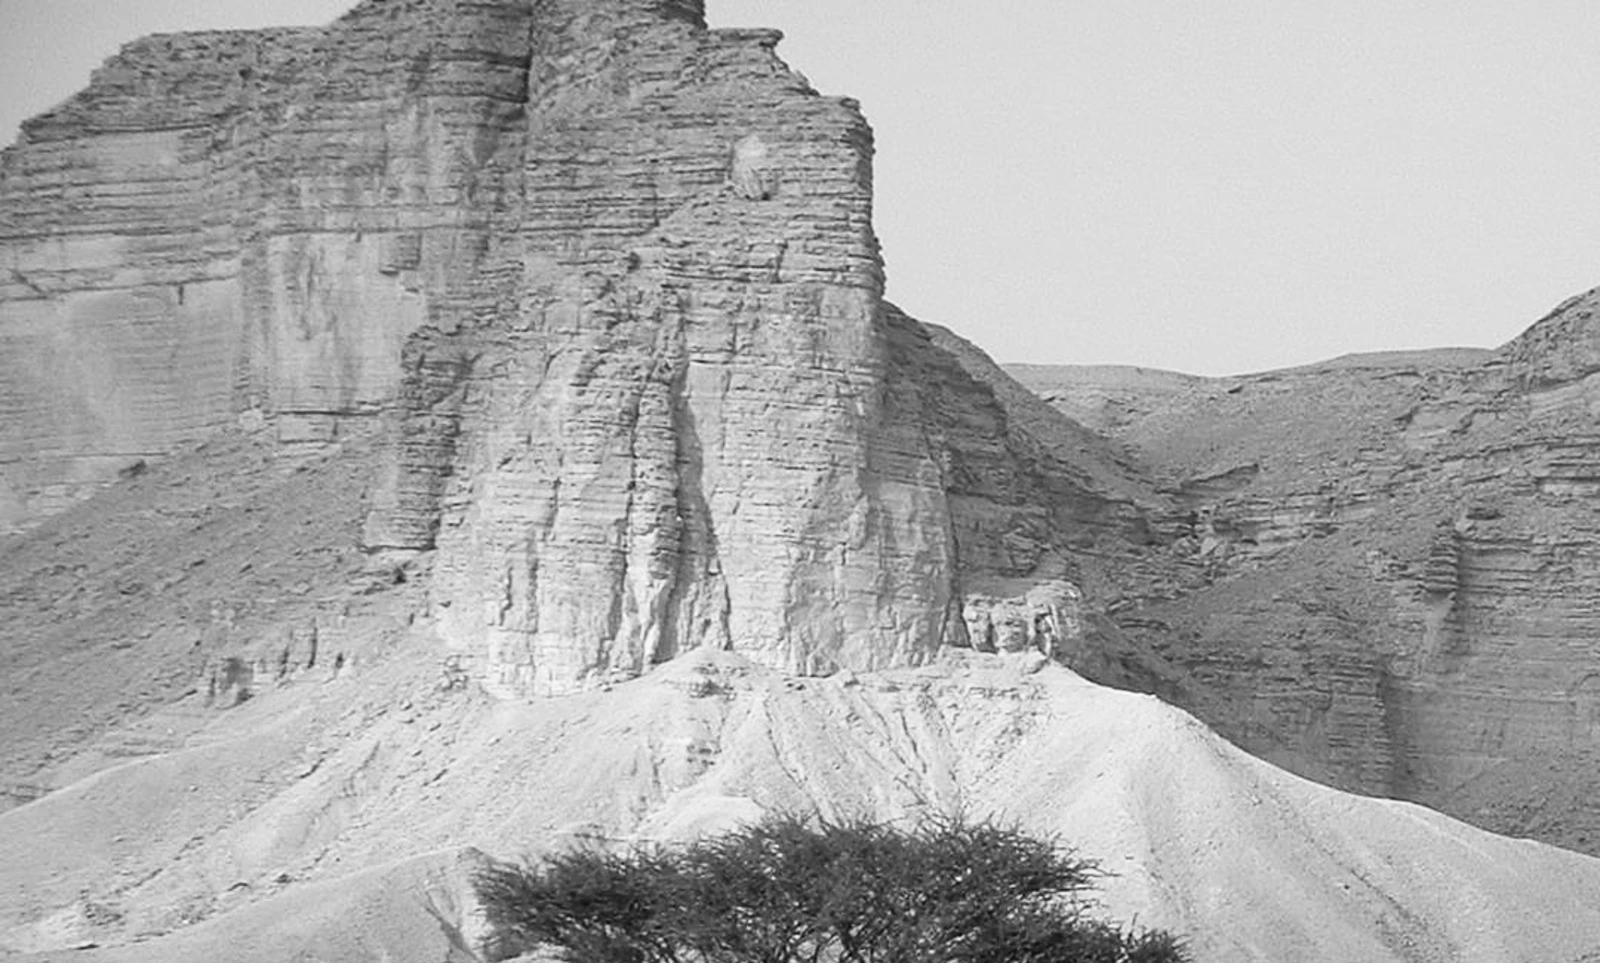
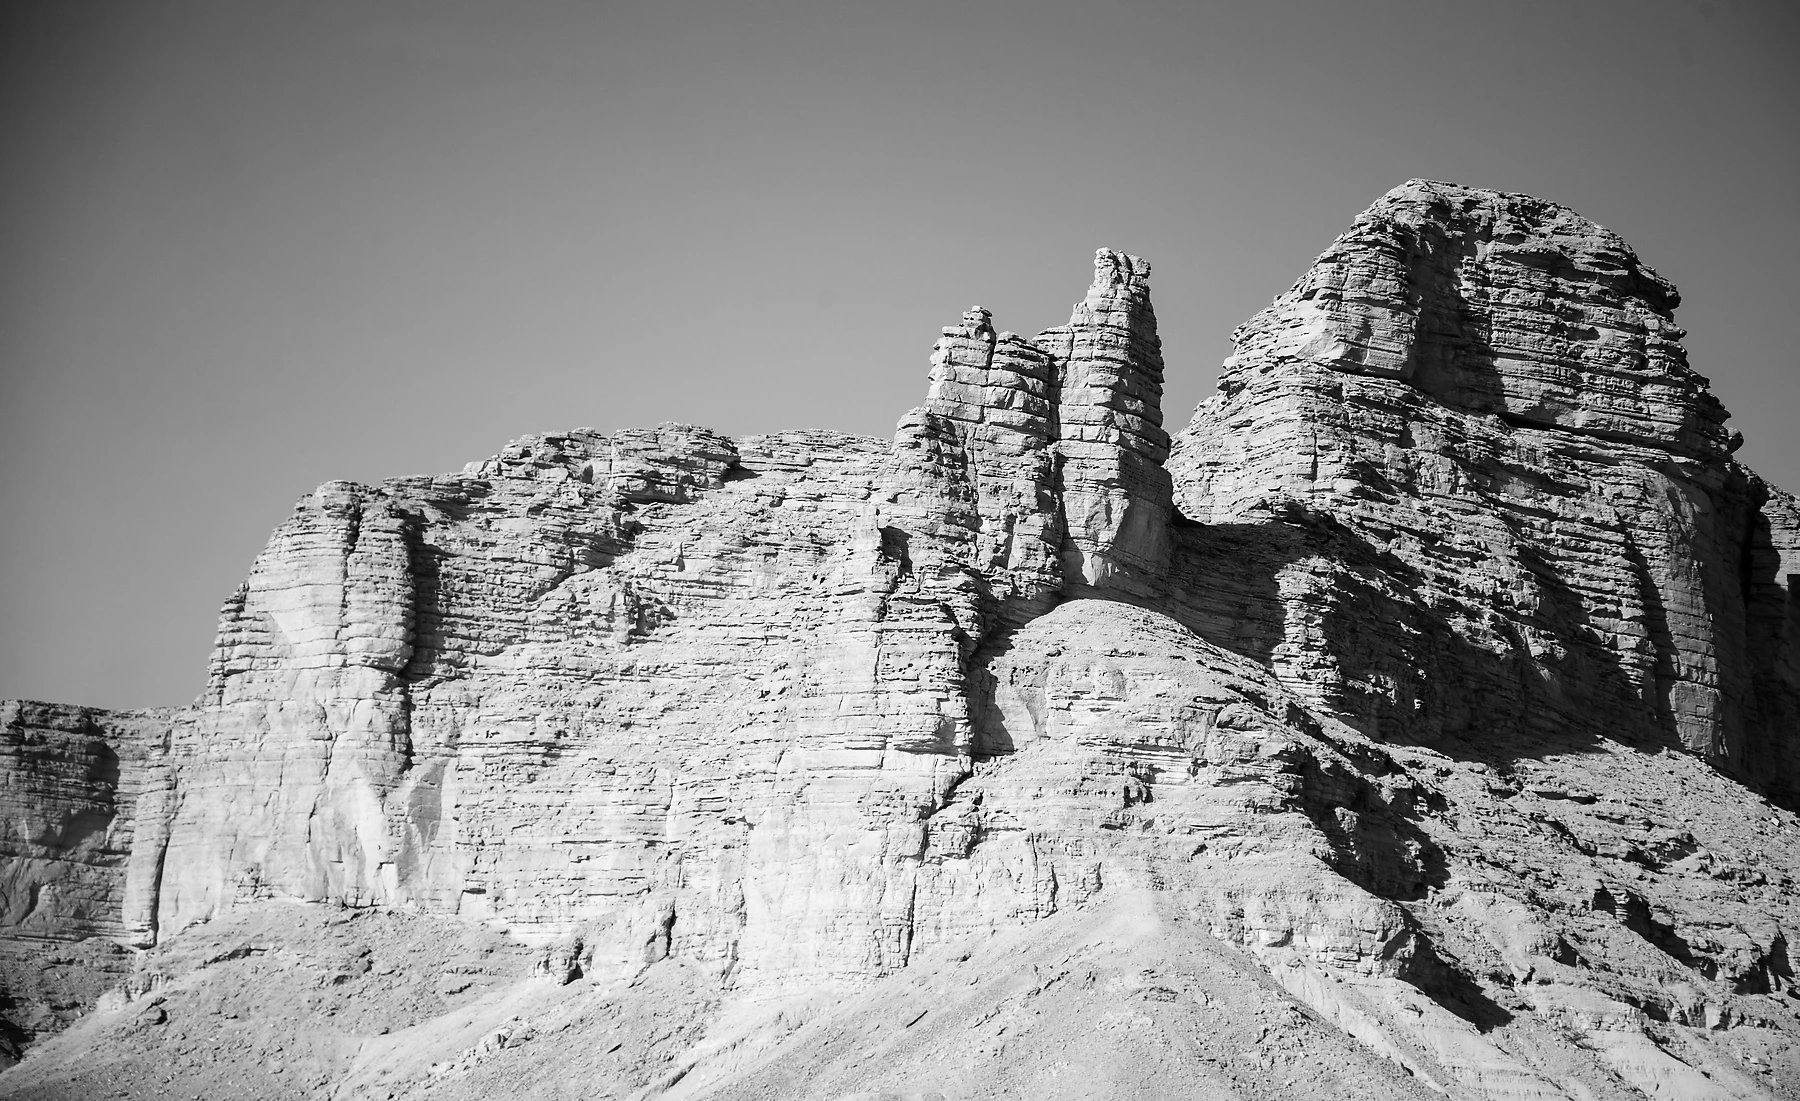
Align Tuwaiq identity and expand product roadmap

diff --git a/src/data/research.ts b/src/data/research.ts
@@ -1,4 +1,4 @@
-export type WorkStatus = "active" | "frozen" | "future";
+export type WorkStatus = "active" | "next";
 
 export interface ProductRecord {
   number: string;
@@ -27,40 +27,40 @@ export const products: ProductRecord[] = [
     number: "02",
     name: "Najd Chat",
     description: "A conversational interface built on a shared knowledge core.",
-    status: "frozen",
-    label: "Frozen",
+    status: "next",
+    label: "Next",
   },
   {
     number: "03",
-    name: "Najd Search",
-    description:
-      "Retrieval and research across connected, inspectable knowledge.",
-    status: "frozen",
-    label: "Frozen",
-  },
-  {
-    number: "04",
     name: "Najd Craft",
     description:
       "An agentic builder for applications, documents, and working artifacts.",
-    status: "frozen",
-    label: "Frozen",
+    status: "next",
+    label: "Next",
+  },
+  {
+    number: "04",
+    name: "Najd Search",
+    description:
+      "Retrieval and research across connected, inspectable knowledge.",
+    status: "next",
+    label: "Next",
   },
   {
     number: "05",
-    name: "Najd Docs",
-    description:
-      "Versioned knowledge with retrieval, evidence, and claim-level citations.",
-    status: "frozen",
-    label: "Frozen contract",
-  },
-  {
-    number: "06",
     name: "Najd Models",
     description:
       "Models trained, adapted, or released when the work earns that name.",
-    status: "future",
-    label: "Future",
+    status: "next",
+    label: "Next",
+  },
+  {
+    number: "06",
+    name: "Najd Inference",
+    description:
+      "Open infrastructure for serving, evaluating, and operating models.",
+    status: "next",
+    label: "Next",
   },
 ];
 
